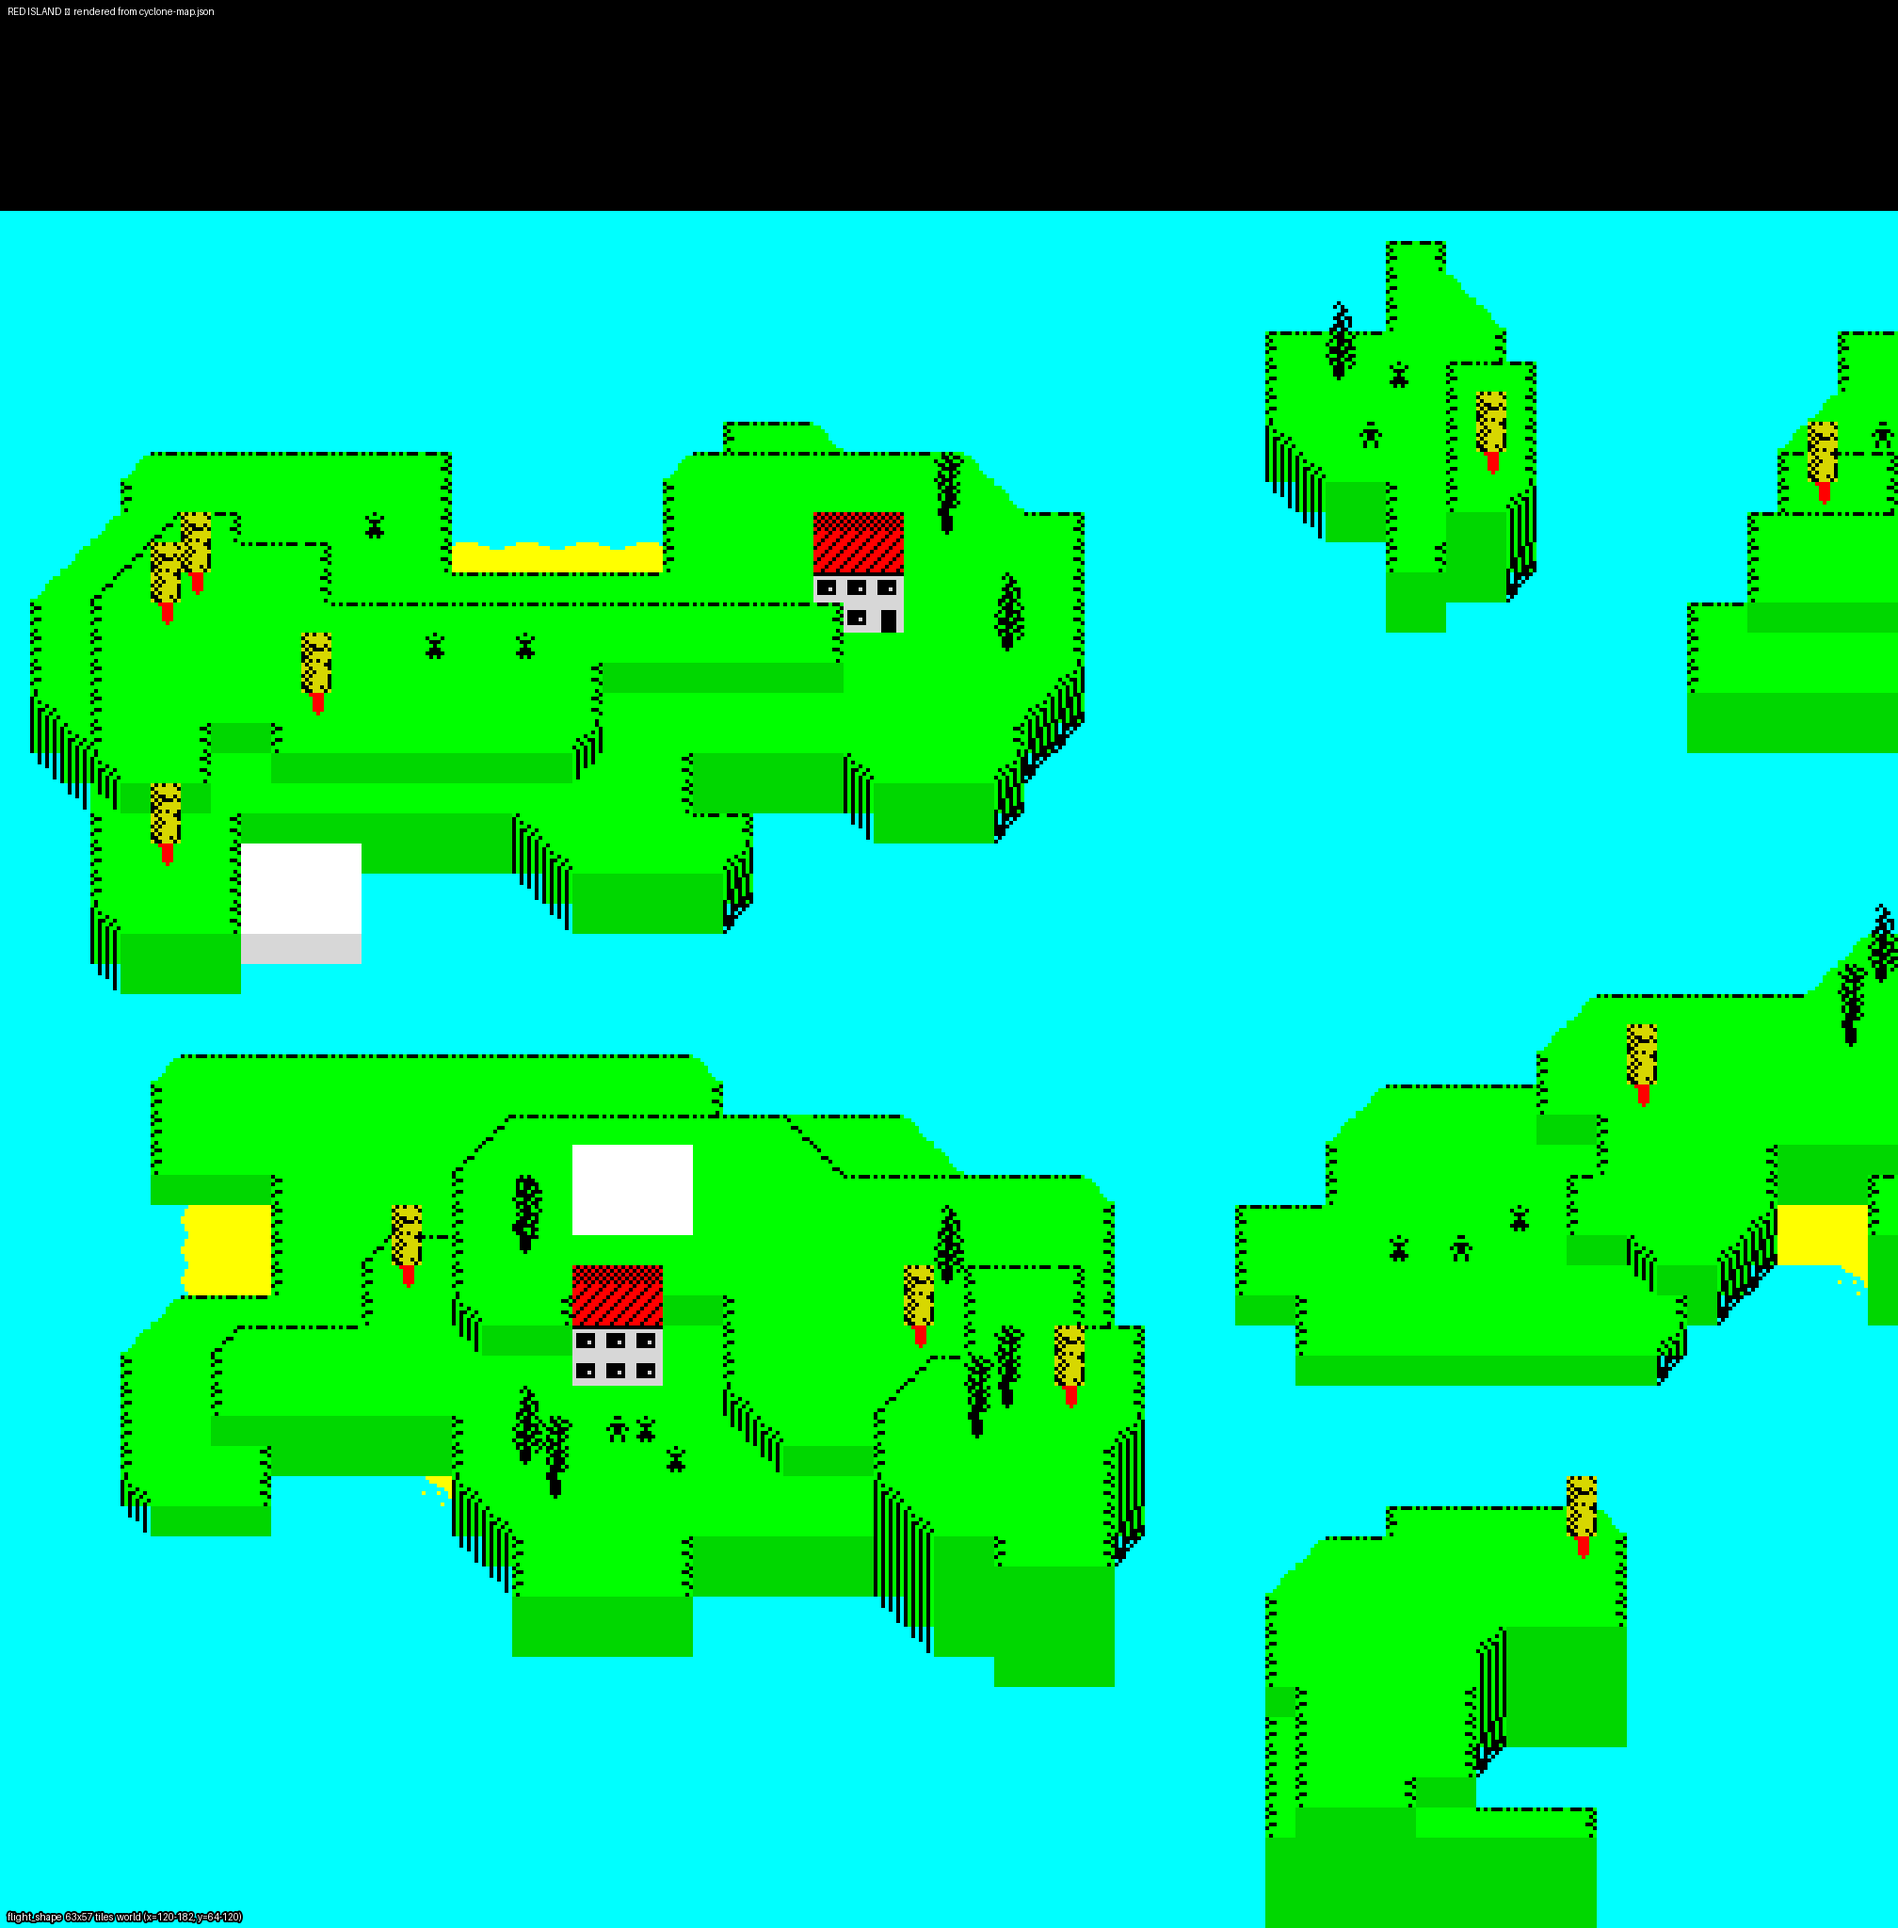
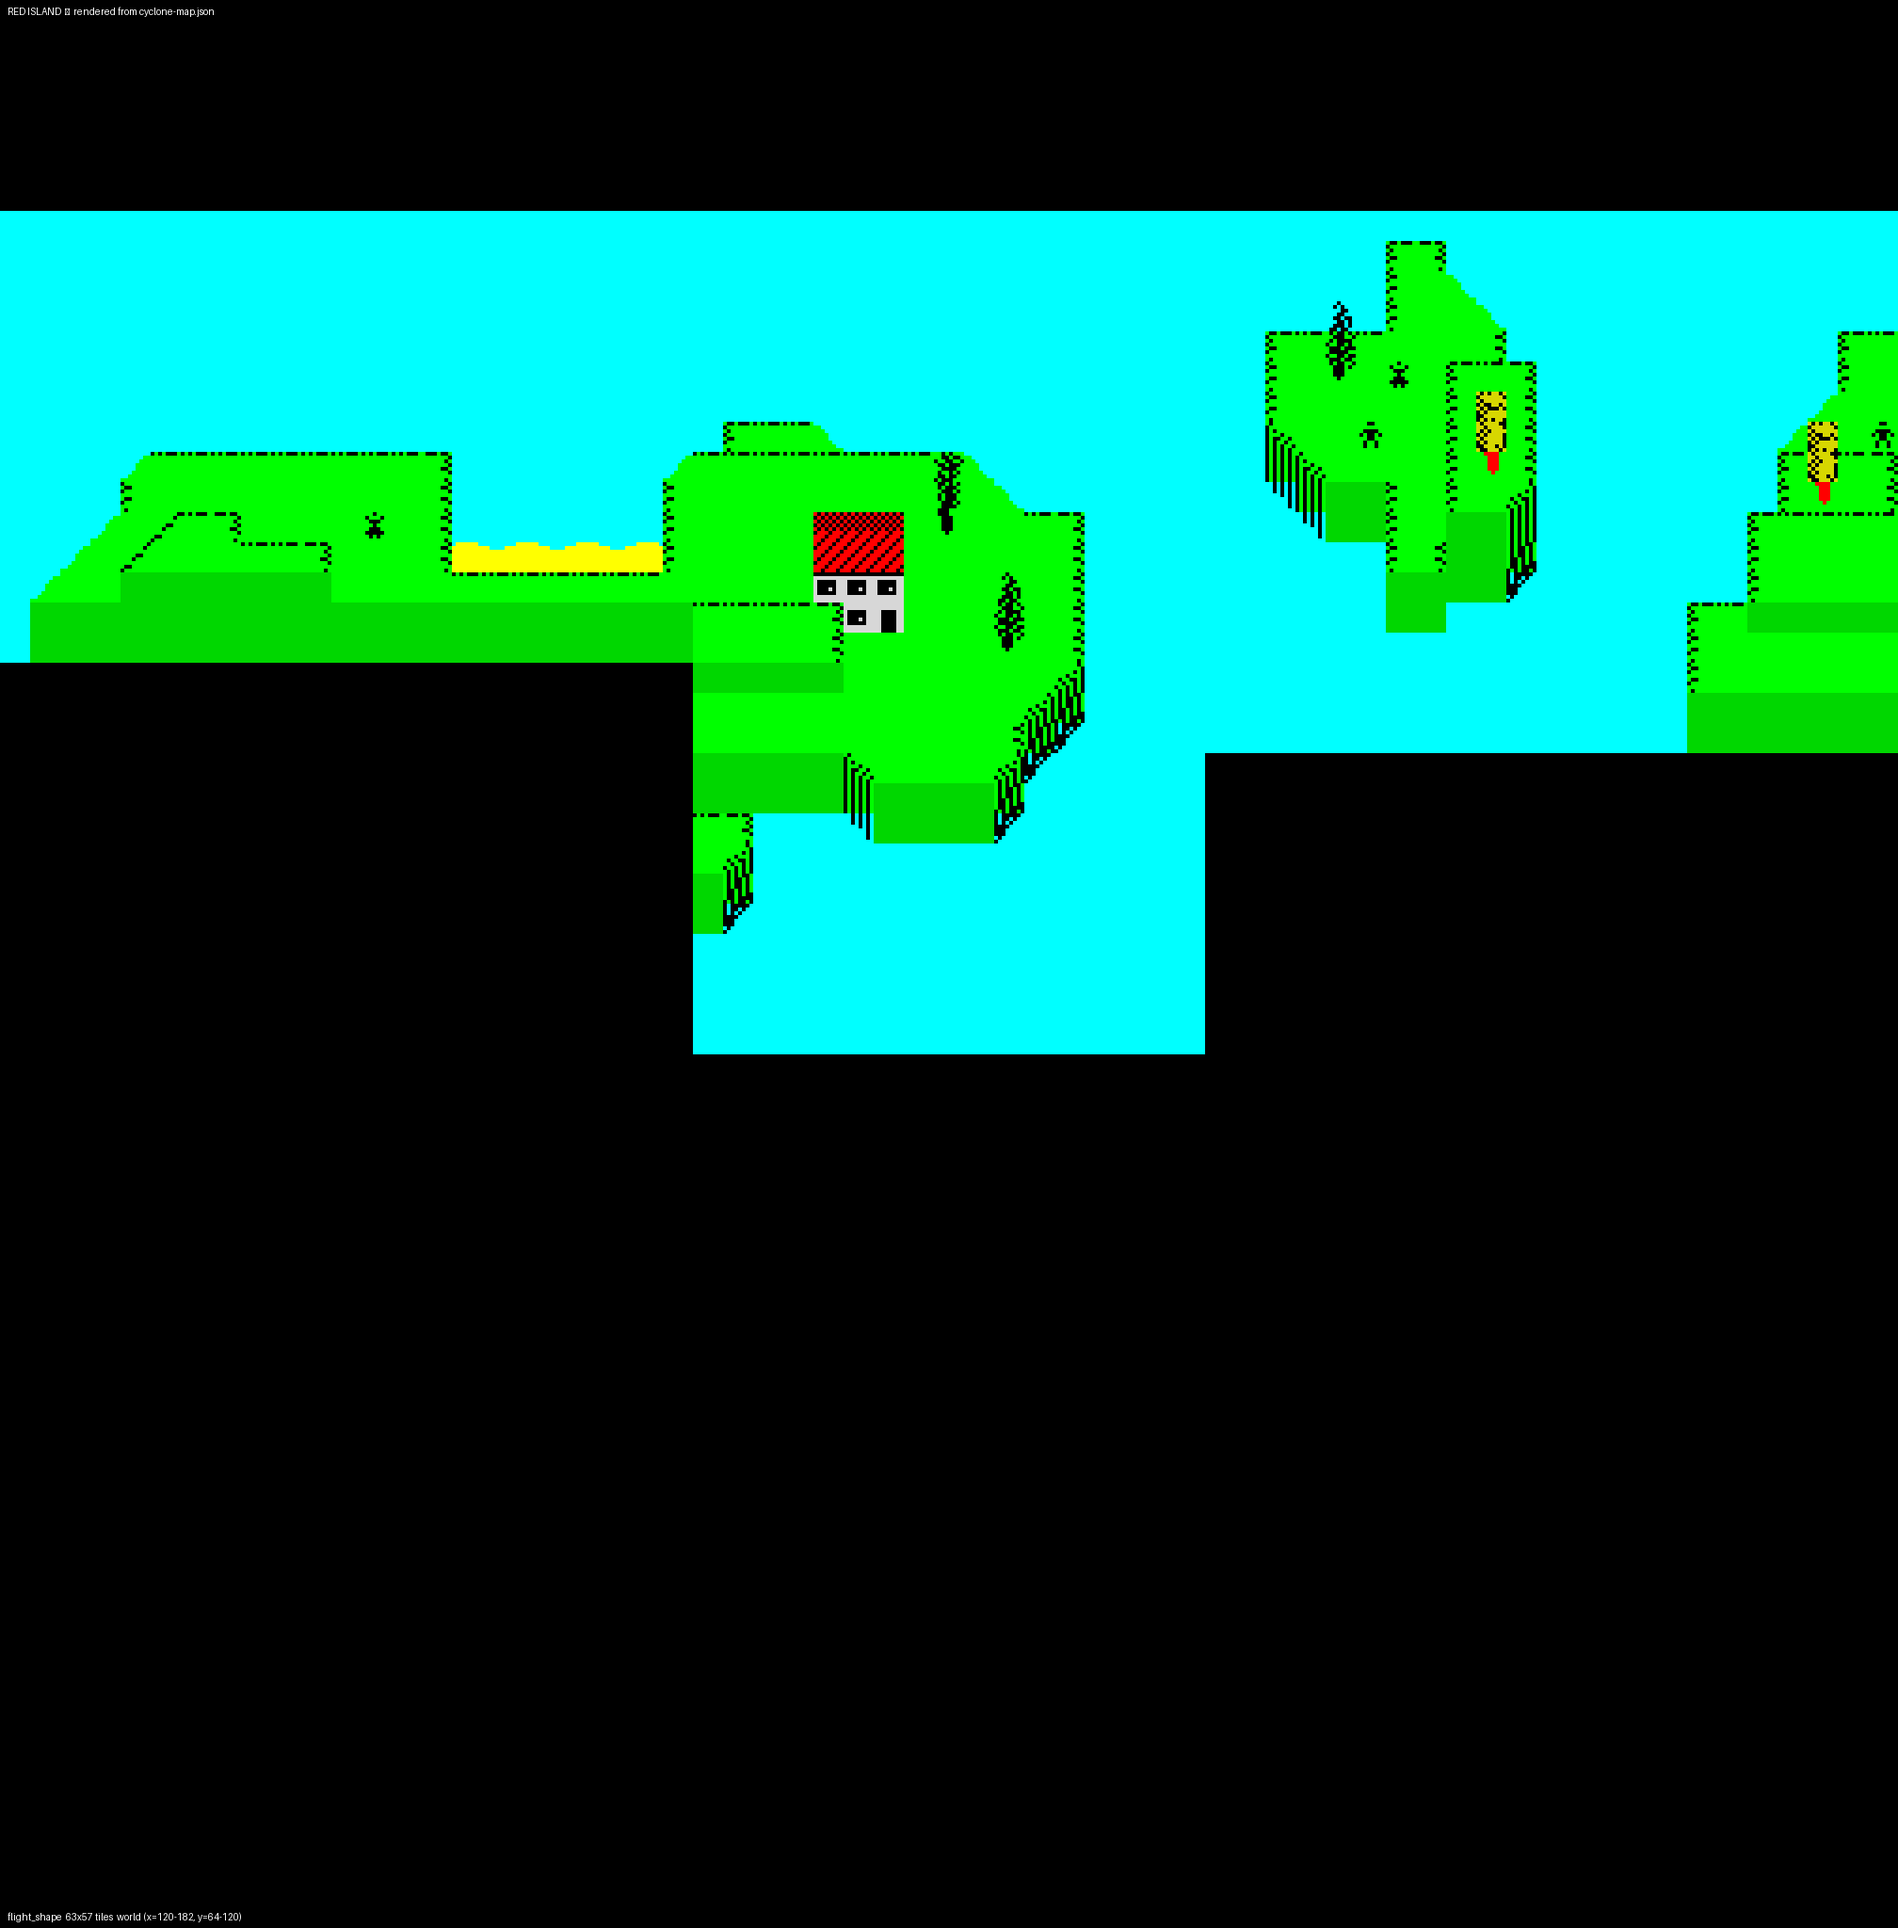
Per-island PNGs: same mask + trim as the world renderer
Apply the foreign-cell ownership mask and the vocabulary-based garbage
trim from render_world_from_json.py to render_island_from_json.py too,
so each per-island PNG shows only that island's primary-owned bytes
(no GIANTS GATEWAY bleeding into BANANA's east side, etc) and no
runtime-RAM garbage past the valid shape data (no chaotic
building/tree clutter at the bottom of BASE/ENTERPRISE/etc).

Result for the 14 PNGs:
- Islands with no shared neighbours and no garbage tail (FORTE,
  KOKOLA, LAGOON, GILLIGANS, RED, SKEG, BONE, CLAW): unchanged
- Islands losing only foreign-owned cells (BANANA, GIANTS GATEWAY):
  trim to their primary terrain extent
- Islands losing only garbage tail (PEAK, BASE, LUKELAND,
  ENTERPRISE): clipped to where their shape data stops being
  recognisable terrain
- The new images show "just the island" the way the user asked

https://claude.ai/code/session_01LDLFjtn7Po25aVN988NfDZ

diff --git a/tools/render_island_from_json.py b/tools/render_island_from_json.py
@@ -35,6 +35,81 @@ def attr_colours(attr_value: int) -> tuple:
     return p[attr_value & 7], p[(attr_value >> 3) & 7]
 
 
+def find_clean_rows(rows: list, calibration_rows: int = 16) -> int:
+    """Some islands' flight_shape extends past the documented shape region
+    ($9300-$CFFF) into runtime work-RAM (BASE, LUKELAND, ENTERPRISE all
+    do this).  Those bytes aren't terrain — they're whatever runtime
+    state happened to be at that address — and they render as garbage.
+
+    Heuristic: an island's terrain uses a fairly stable set of tile byte
+    values.  Calibrate that vocabulary from the first 16 rows.  Walk
+    further; if two consecutive non-empty rows have >30% of their bytes
+    unseen in the vocabulary, we've crossed into alien memory — return
+    the last in-vocab row.  Empty rows (all zeros) are skipped (some
+    islands legitimately store two views with a sea gap between).
+    """
+    if len(rows) <= calibration_rows:
+        return len(rows)
+    vocab = set()
+    for r in rows[:calibration_rows]:
+        vocab.update(r)
+    streak = 0
+    for i, row in enumerate(rows[calibration_rows:], start=calibration_rows):
+        non_zero = [b for b in row if b != 0]
+        if not non_zero:
+            continue
+        alien = sum(1 for b in non_zero if b not in vocab)
+        if alien > len(non_zero) * 0.30:
+            streak += 1
+            if streak >= 2:
+                return i - 1
+        else:
+            streak = 0
+            vocab.update(non_zero)
+    return len(rows)
+
+
+def build_owner_map(islands: list) -> callable:
+    """Return owner(addr) -> island_index | None.
+
+    Several islands share shape pages — BANANA at $9300, GIANTS GATEWAY
+    at $9337 and GILLIGANS at $9354 all overlap; same trick for
+    FORTE/RED, KOKOLA/SKEG, LUKELAND/ENTERPRISE.  When BANANA's engine
+    reads its full 77x57 rectangle it physically reads bytes that
+    "belong" to GIANTS GATEWAY (their primary terrain) too.
+
+    Rule: among all islands whose flight_shape rectangle CONTAINS the
+    byte, pick the one with the largest shape_base (the most-recently
+    packed claim — the byte was placed for THAT island; earlier islands
+    just happen to read through it).
+    """
+    rects = []
+    for idx, isl in enumerate(islands):
+        sb = int(isl["shape_base"], 16)
+        rows = isl["flight_shape"]["tiles"]
+        # Use the clean (non-garbage) row count so trimmed bytes don't
+        # spuriously claim ownership of other islands' bytes.
+        H = find_clean_rows(rows)
+        W = len(rows[0]) if rows else 0
+        rects.append((idx, sb, H, W))
+
+    def owner(addr: int):
+        best = None
+        best_sb = -1
+        for idx, sb, H, W in rects:
+            if not (sb <= addr):
+                continue
+            offset = addr - sb
+            r, c = divmod(offset, 128)
+            if r < H and c < W:
+                if sb > best_sb:
+                    best_sb = sb
+                    best = idx
+        return best
+
+    return owner
+
+
 def render(json_path: str, island_name: str, scale: int, out_path: str) -> None:
     data = json.loads(Path(json_path).read_text())
     glyphs = {g["index"]: g["bytes"] for g in data["tile_glyphs"]}
@@ -47,8 +122,18 @@ def render(json_path: str, island_name: str, scale: int, out_path: str) -> None:
             print(f"  - {i['name']}")
         sys.exit(2)
 
+    my_idx = next(idx for idx, i in enumerate(data["islands"])
+                  if i["name"] == island_name)
+    owner = build_owner_map(data["islands"])
+    sb = int(isl["shape_base"], 16)
+
     fs = isl["flight_shape"]
-    rows = fs["tiles"]
+    full_rows = fs["tiles"]
+    clean = find_clean_rows(full_rows)
+    if clean < len(full_rows):
+        print(f"  (trimmed {len(full_rows)-clean} garbage rows past valid "
+              f"shape data: {clean}/{len(full_rows)} kept)")
+    rows = full_rows[:clean]
     H, W = len(rows), len(rows[0])
 
     # The render pipeline: each shape byte produces a vertical STACK
@@ -81,9 +166,16 @@ def render(json_path: str, island_name: str, scale: int, out_path: str) -> None:
 
     # Draw cells back-to-front (top of screen first) so closer cells
     # overwrite farther ones — same write order as the game engine
-    # ($7E10 walks UP from the base position).
+    # ($7E10 walks UP from the base position).  Skip any cell whose
+    # underlying byte primarily belongs to a packed-shape neighbour
+    # (BANANA/GIANTS/GILLIGANS, FORTE/RED, KOKOLA/SKEG,
+    # LUKELAND/ENTERPRISE) — otherwise the neighbour's terrain bleeds
+    # into this island's east edge.
     for y in range(H):
         for x, raw in enumerate(rows[y]):
+            addr = sb + y * 128 + x
+            if owner(addr) != my_idx:
+                continue
             stack = tile_stacks[raw]
             for level, entry in enumerate(stack):
                 if entry["skip"]:
